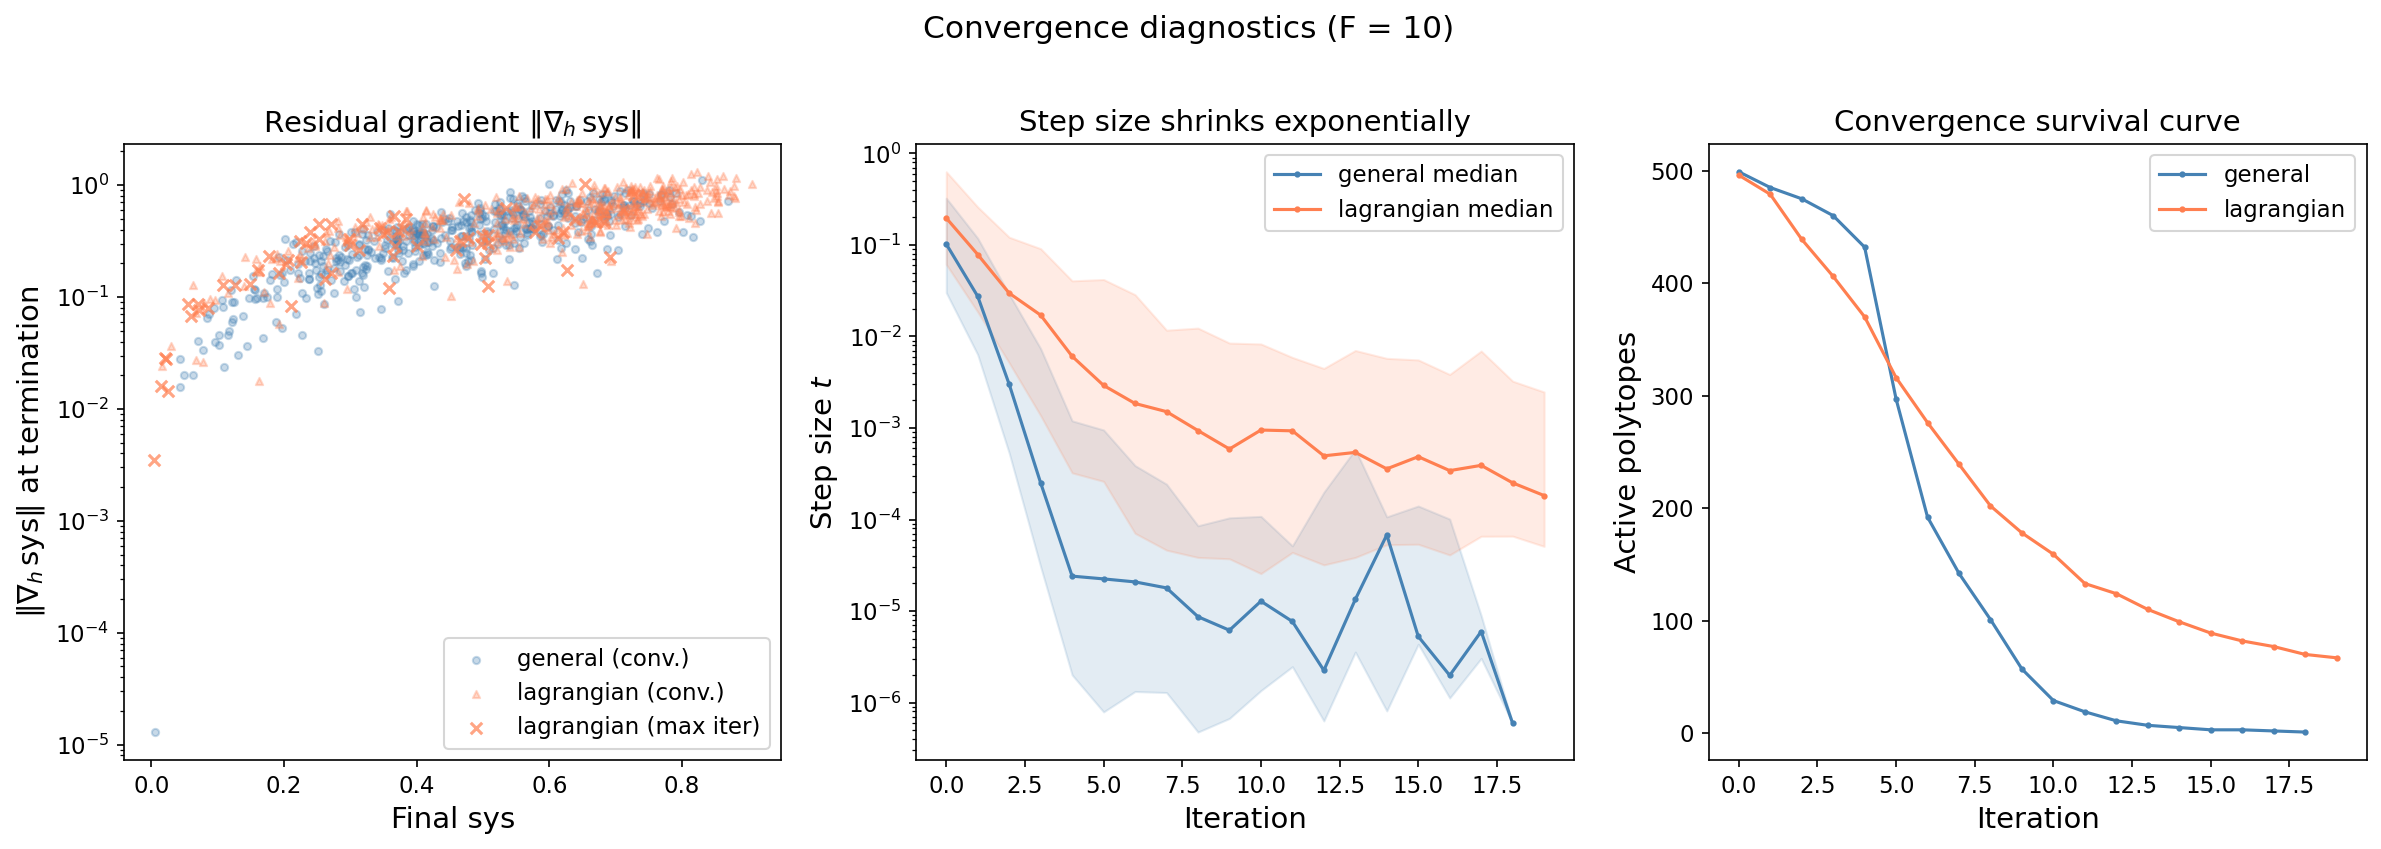
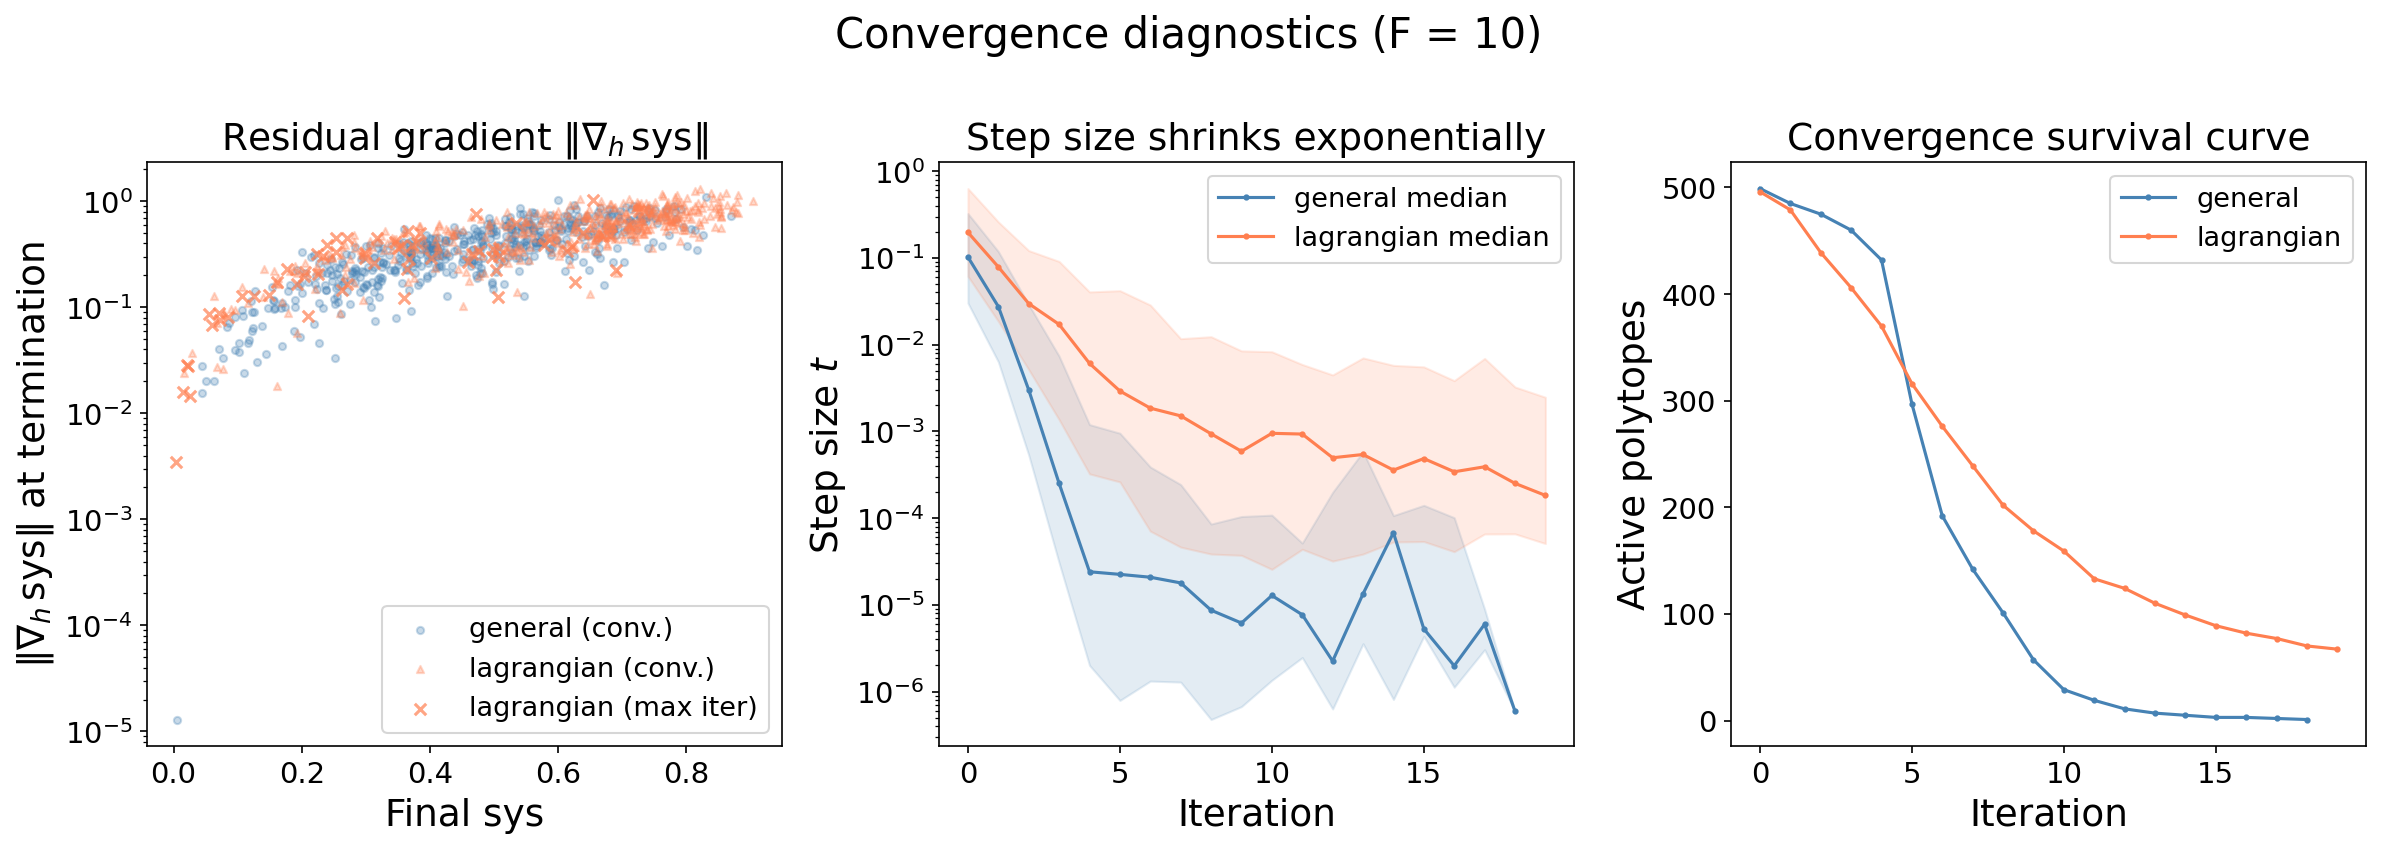
Address review findings: font sizes, captions, documentation
Figures:
- Convergence figure: boost fonts via rc_context (18pt labels, 14pt ticks,
  13pt legends) to stay readable after 2.5x downscale to \textwidth
- Scatter: stronger diagonal line (alpha 0.4, linewidth 1.0), add
  "no improvement" legend entry to distinguish from sys=1 line

.tex:
- Add TODO marker on Results section for Jörn verification
- Specify "Pearson r" for correlation claim
- Replace informal "O(1) gradient norms" with "bounded away from zero"

README:
- Add per-figure documentation (what data, what pattern, why it exists)

Docstring:
- Add stdout output description

diff --git a/experiments/gradient-descent/gradient_descent.py b/experiments/gradient-descent/gradient_descent.py
@@ -3,10 +3,11 @@
 Analyze gradient ascent results on F=10 polytopes.
 
 Goal: Visualize gradient ascent outcomes and diagnose convergence behavior.
-Input: experiments/gradient-descent/gradient-descent.jsonl
+Input: experiments/gradient-descent/gradient-descent.jsonl (7631 rows, 995 polytopes)
 Output:
   - gradient_descent_scatter.png      (starting vs final sys, by class)
   - gradient_descent_convergence.png  (gradient norms + step size dynamics)
+  - stdout: summary table and convergence statistics cited in gradient-descent.tex
 """
 
 import json
@@ -82,7 +83,7 @@ def plot_scatter(summaries):
         ax.scatter(x, y, alpha=0.4, label=label, color=color, marker=marker, s=15)
 
     lims = [0, max(ax.get_xlim()[1], ax.get_ylim()[1])]
-    ax.plot(lims, lims, "k--", alpha=0.3, linewidth=0.5)
+    ax.plot(lims, lims, "k--", alpha=0.4, linewidth=1.0, label="no improvement")
     ax.axhline(y=1.0, color="red", linestyle="--", linewidth=1, alpha=0.5, label="sys = 1")
 
     ax.set_xlabel("Starting sys")
@@ -98,7 +99,25 @@ def plot_scatter(summaries):
 
 
 def plot_convergence(rows, by_name):
-    """Combined figure: gradient norms at termination + step size dynamics."""
+    """Combined figure: gradient norms at termination + step size dynamics.
+
+    This 3-panel figure is 16" wide but rendered at ~6.3" (\\textwidth),
+    so a 2.5x downscale requires larger font sizes than the global rcParams.
+    """
+    conv_rc = {
+        "axes.labelsize": 18,
+        "axes.titlesize": 18,
+        "xtick.labelsize": 14,
+        "ytick.labelsize": 14,
+        "legend.fontsize": 13,
+        "figure.titlesize": 20,
+    }
+    with plt.rc_context(conv_rc):
+        _plot_convergence_impl(rows, by_name)
+
+
+def _plot_convergence_impl(rows, by_name):
+    """Inner implementation using caller's rc_context."""
     fig, axes = plt.subplots(1, 3, figsize=(16, 5.5))
 
     # Panel 1: height gradient norm vs final sys

diff --git a/experiments/gradient-descent/gradient-descent.tex b/experiments/gradient-descent/gradient-descent.tex
@@ -49,6 +49,8 @@ Iteration terminates when improvement drops below~$10^{-6}$,
 or after 20~iterations.
 
 \subsubsection*{Results}
+% [TODO: JÖRN - verify data claims and table values match Python output.
+%  All numbers below were cross-checked by agent against gradient_descent.py output.]
 
 Of the 995 polytopes that produce at least one valid gradient
 step (6~fail due to degenerate initial data):
@@ -94,12 +96,12 @@ and balanced splits outperform asymmetric ones
 
 \subsubsection*{Convergence analysis}
 
-The algorithm terminates with $O(1)$ gradient norms---far from
-the near-zero gradients expected at a local maximum.
+The algorithm terminates with gradient norms bounded away from
+zero---far from the near-zero gradients expected at a local maximum.
 The median $\|\nabla_h\,\mathrm{sys}\|$ at termination
 is~$0.36$ for general polytopes and~$0.53$ for Lagrangian products.
 Moreover, $\|\nabla_h\,\mathrm{sys}\|$ is \emph{positively}
-correlated with final $\mathrm{sys}$ ($r \approx 0.80$;
+correlated with final $\mathrm{sys}$ (Pearson $r \approx 0.80$;
 Figure~\ref{fig:gd-convergence}, left):
 polytopes closest to the Viterbo threshold have the
 \emph{strongest} residual gradients.

diff --git a/experiments/gradient-descent/README.md b/experiments/gradient-descent/README.md
@@ -25,6 +25,12 @@ python3 gradient-descent/gradient_descent.py
 - Balanced splits (5x5) outperform asymmetric splits (3x7)
 - **Step-bound barrier**: the algorithm terminates because t_max shrinks (combinatorial type boundary), not because gradients vanish. Residual gradients are O(1) at termination, and positively correlated with final sys (r ≈ 0.80).
 
+## Figures
+
+**`gradient_descent_scatter.png`** — Starting sys vs final sys for all 995 polytopes. General (blue circles) vs Lagrangian products (coral triangles). Key pattern: all points below sys=1 line; Lagrangian products cluster higher than general polytopes. The diagonal marks zero improvement.
+
+**`gradient_descent_convergence.png`** — Three-panel convergence diagnostics. Left: residual height gradient vs final sys (positive correlation r=0.80 — polytopes near the barrier have the strongest gradients). Center: median step size with IQR band drops 2-3 orders of magnitude (the step-bound barrier). Right: survival curve showing most polytopes converge within 5-10 iterations.
+
 ## Files
 
 | File | Purpose |
